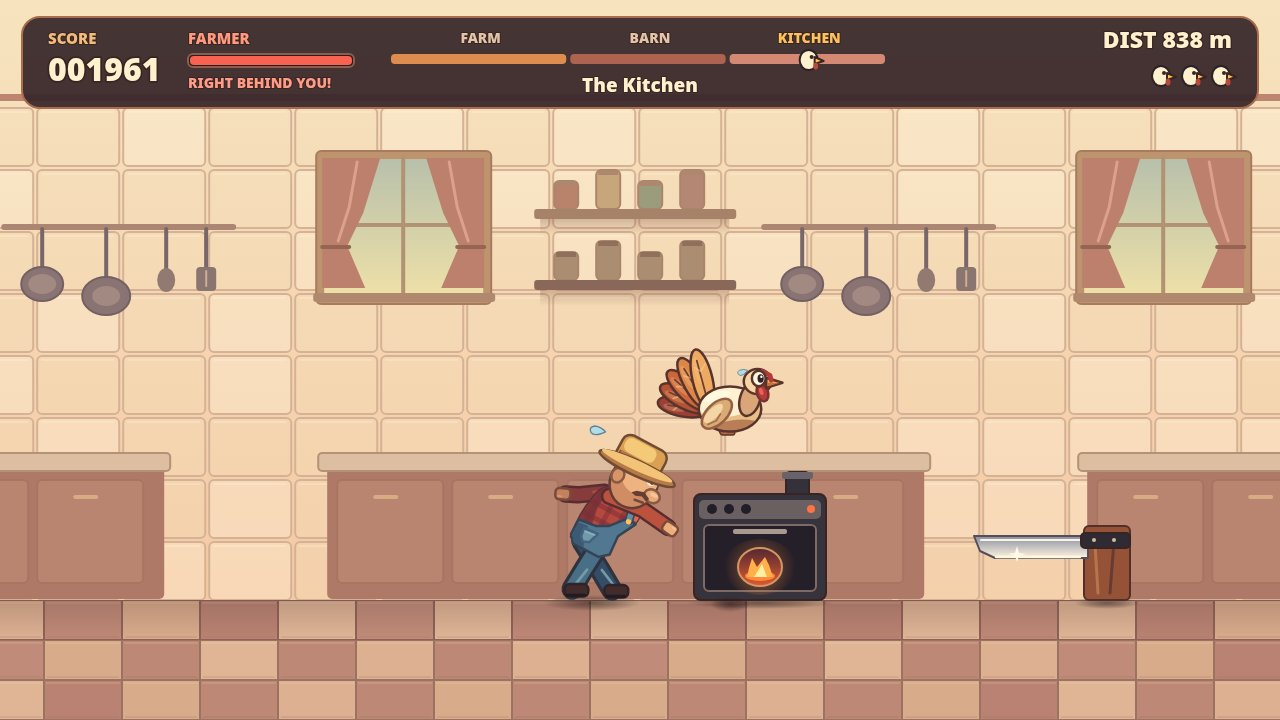
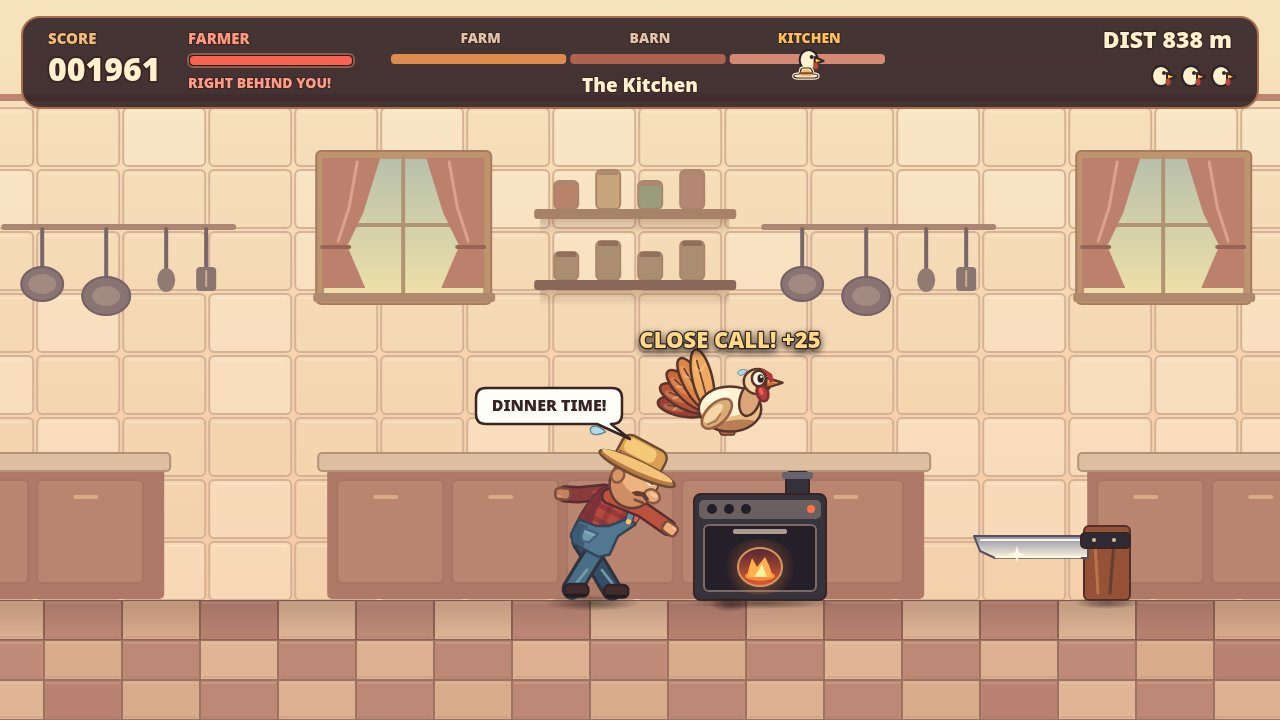
v3.3: farmer marker on stage progress bar, DINNER TIME!/GOTCHA! speech bubbles, CLOSE CALL +25 near-miss event (popup in staged cover)

Changed region(s): [[0.3438, 0.5194, 0.5, 0.6111], [0.5, 0.4583, 0.6562, 0.5194], [0.625, 0.0917, 0.6562, 0.1222]]

diff --git a/game/src/render.js b/game/src/render.js
@@ -759,6 +759,35 @@ export class Renderer {
     this.shadow(x, this.ground + 3, 39 * CHARACTER_SCALE, 8, true);
     this.farmerPose(x, this.ground, farmer, CHARACTER_SCALE);
     if (farmer.state === 'search') this.text('?', x, this.ground - 145 * CHARACTER_SCALE, 37, GOLD);
+    if (farmer.state === 'lunge') {
+      this.speechBubble('DINNER TIME!', x + farmer.facing * 42, this.ground - 156, 146);
+    }
+  }
+
+  speechBubble(message, speakerX, speakerY, width) {
+    const c = this.ctx;
+    const x = Math.max(20, Math.min(this.w - width - 20, speakerX - width - 12));
+    const y = speakerY - 56;
+    const right = x + width;
+    const bottom = y + 36;
+    const tail = Math.max(x + 18, Math.min(right - 18, speakerX));
+
+    c.beginPath();
+    c.moveTo(x + 10, y);
+    c.lineTo(right - 10, y);
+    c.quadraticCurveTo(right, y, right, y + 10);
+    c.lineTo(right, bottom - 10);
+    c.quadraticCurveTo(right, bottom, right - 10, bottom);
+    c.lineTo(tail + 7, bottom);
+    c.lineTo(Math.max(6, Math.min(this.w - 6, speakerX - 4)), speakerY - 5);
+    c.lineTo(tail - 7, bottom);
+    c.lineTo(x + 10, bottom);
+    c.quadraticCurveTo(x, bottom, x, bottom - 10);
+    c.lineTo(x, y + 10);
+    c.quadraticCurveTo(x, y, x + 10, y);
+    c.closePath();
+    this.paint('#fffdf7', INK, 2.5);
+    this.text(message, x + width / 2, y + 18, 16, INK, 'center', null);
   }
 
   farmerPose(x, y, farmer = {}, scale = 1, holding = false) {
@@ -931,6 +960,8 @@ export class Renderer {
       this.round(left + offset, 54, width - 4, 10, 4, ['#dd8d4d', '#ae6350', '#d58873'][i]);
     }
     this.headIcon(left + progress * barWidth, 60, true);
+    const farmerProgress = Math.max(0, Math.min(1, state.farmer.x / world.totalLength));
+    this.farmerHeadIcon(left + farmerProgress * barWidth, 76);
     this.text(currentStage.name, this.w / 2, 87, 19);
     this.text(`DIST ${state.distance} m`, this.w - 48, 41, 23, CREAM, 'right');
     for (let i = 0; i < this.config.turkey.LIVES; i++) {
@@ -947,6 +978,11 @@ export class Renderer {
     }
     if (state.flashSpotted > 0) this.text('SPOTTED!', this.w / 2, 231, 46, '#ff6854');
     else if (turkey.hidden) this.drawHiddenLabel(state);
+    if (state.closeCallUntil > state.time) {
+      const x = Math.max(108, Math.min(this.w - 108, turkey.x - state.cameraX));
+      const y = Math.max(134, turkey.hitbox().headY - (turkey.hidden ? 113 : 44));
+      this.drawFeedbackLabel('CLOSE CALL! +25', x, y, state.frozen ? 22 : 27, '#ffd787');
+    }
   }
 
   drawHiddenLabel({ turkey, world, cameraX, shotCover }) {
@@ -955,12 +991,16 @@ export class Renderer {
     const anchor = cover ? cover.x + cover.w / 2 : turkey.x;
     const x = Math.max(68, Math.min(this.w - 68, anchor - cameraX));
     const y = Math.min(headY, cover ? this.ground - cover.h : headY) - 24;
+    this.drawFeedbackLabel('HIDDEN', x, y, 28, '#d6ebae');
+  }
+
+  drawFeedbackLabel(label, x, y, size, fill) {
     const c = this.ctx;
     c.save();
     c.shadowColor = '#211a1db8';
     c.shadowBlur = 7;
     c.shadowOffsetY = 3;
-    this.text('HIDDEN', x, y, 28, '#d6ebae', 'center', '#302724');
+    this.text(label, x, y, size, fill, 'center', '#302724');
     c.restore();
   }
 
@@ -983,6 +1023,26 @@ export class Renderer {
       filled ? GOLD : '#84605b', INK);
     this.oval(x + 3, y - 3, 2, 2, INK);
     if (filled) this.oval(x + 7, y + 6, 2.5, 3.5, '#bc483b');
+  }
+
+  farmerHeadIcon(x, y) {
+    const c = this.ctx;
+    c.beginPath();
+    c.moveTo(x - 12, y);
+    c.quadraticCurveTo(x - 12, y - 2, x - 6, y - 2);
+    c.lineTo(x - 5, y - 6);
+    c.quadraticCurveTo(x - 5, y - 8, x - 2, y - 8);
+    c.lineTo(x + 3, y - 8);
+    c.quadraticCurveTo(x + 5, y - 8, x + 6, y - 6);
+    c.lineTo(x + 7, y - 2);
+    c.quadraticCurveTo(x + 12, y - 2, x + 12, y);
+    c.quadraticCurveTo(x + 12, y + 2, x + 8, y + 2);
+    c.lineTo(x - 8, y + 2);
+    c.quadraticCurveTo(x - 12, y + 2, x - 12, y);
+    c.closePath();
+    this.paint('#f4bb66', '#fff1cd', 3.5);
+    this.paint(null, INK, 1.2);
+    this.line([[x - 5.5, y - 2.75], [x + 6.1, y - 2.75]], '#854639', 2.2);
   }
 
   leafFrame() {
@@ -1045,6 +1105,7 @@ export class Renderer {
     this.shadow(608, this.ground + 8, 156, 17, true);
     this.farmerPose(530, this.ground, { facing: 1 }, 2.28 * CHARACTER_SCALE, true);
     this.turkeyPose(686, this.ground - 328, { airborne: true, despair: true }, 1.94 * CHARACTER_SCALE, Math.PI);
+    this.speechBubble('GOTCHA!', 487, 279, 112);
     this.leafFrame();
     this.endPrompt(state);
     this.endImpact(impact);

diff --git a/game/src/main.js b/game/src/main.js
@@ -17,6 +17,9 @@ const input = new Input(canvas);
 const tuning = CONFIG.game;
 const presentation = CONFIG.presentation;
 const { GROUND_Y, W, H } = CONFIG.view;
+const CLOSE_CALL_DISTANCE = 90;
+const CLOSE_CALL_POINTS = 25;
+const CLOSE_CALL_SECONDS = 0.9;
 const game = {
   state: 'title',
   frozen: false,
@@ -48,6 +51,9 @@ function resetRun() {
   game.distance = 0;
   game.score = 0;
   game.cornPoints = 0;
+  game.closeCallPoints = 0;
+  game.closeCallUntil = 0;
+  game.lungeWasClose = false;
   game.stageBanner = presentation.STAGE_BANNER_SECONDS;
   game.flashSpotted = 0;
   game.particles = seedLeaves();
@@ -108,13 +114,24 @@ function switchStage(stage) {
 function updatePlaying(dt) {
   const { turkey, farmer, world } = game;
   const previousLift = turkey.y;
+  const wasLunging = farmer.state === 'lunge';
   turkey.update(dt, input, world);
   if (previousLift === 0 && turkey.y > 0) audio.jump();
   farmer.update(dt, turkey, world);
   const reachedArch = resolveItems();
+  const caught = !turkey.alive || farmer.caught(turkey);
+  const lunging = farmer.state === 'lunge';
+  if (!wasLunging) game.lungeWasClose = false;
+  if ((wasLunging || lunging) && Math.abs(turkey.x - farmer.x) <= CLOSE_CALL_DISTANCE) {
+    game.lungeWasClose = true;
+  }
+  if (wasLunging && !lunging && game.lungeWasClose && !caught) {
+    game.closeCallPoints += CLOSE_CALL_POINTS;
+    game.closeCallUntil = game.time + CLOSE_CALL_SECONDS;
+  }
 
   game.distance = Math.floor(turkey.x / tuning.PIXELS_PER_METRE);
-  game.score = game.cornPoints + Math.floor(game.distance / tuning.METRES_PER_POINT);
+  game.score = game.cornPoints + game.closeCallPoints + Math.floor(game.distance / tuning.METRES_PER_POINT);
   game.cameraX = Math.max(0, Math.min(turkey.x - tuning.CAMERA_LEAD, world.totalLength - W));
 
   game.stageBanner = Math.max(0, game.stageBanner - dt);
@@ -126,7 +143,7 @@ function updatePlaying(dt) {
     audio.spotted();
   }
 
-  if (!turkey.alive || farmer.caught(turkey)) {
+  if (caught) {
     turkey.alive = false;
     game.state = 'caught';
     audio.caught();

diff --git a/game/src/shots.js b/game/src/shots.js
@@ -7,6 +7,7 @@ const SHOT_CAMERA_ANCHOR = 440;
 export function stageShot(name, game) {
   game.frozen = true;
   game.time = 0.72;
+  game.closeCallUntil = 0;
   delete game.shotDustX;
   delete game.shotCover;
 
@@ -36,6 +37,7 @@ export function stageShot(name, game) {
       game.farmer.x = game.turkey.x - 138;
       game.farmer.state = 'lunge';
       game.farmer.lungeRemaining = 0.22;
+      game.closeCallUntil = game.time + 1;
       game.distance = Math.floor(game.turkey.x / CONFIG.game.PIXELS_PER_METRE);
       break;
     }
